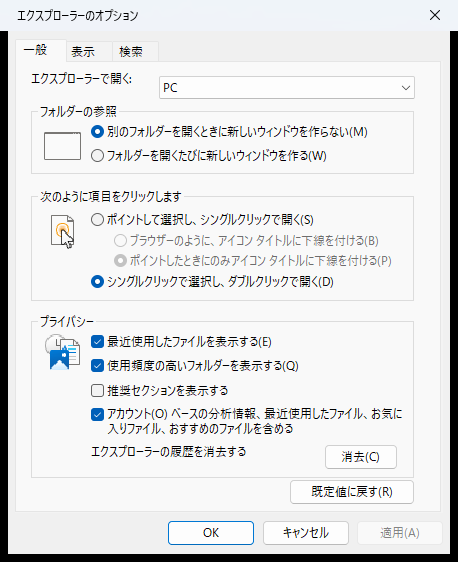
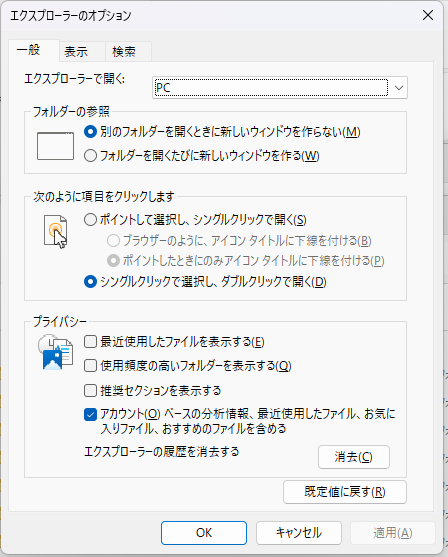
feat: show screen previews for more Windows settings items
Add screenshots of the Settings, Windows Security and File Explorer
Options screens so that 32 of the 41 Windows settings items in the
recipe builder have a "show the screen" button.

Retake folder-options-general.png with the privacy checkboxes cleared,
matching the state after the recipe runs, and realign its red boxes.

The remaining 9 items have no matching switch in the current Settings
app, so they stay without a button.

diff --git a/APP_RecipeBuilder/recipe-builder.html b/APP_RecipeBuilder/recipe-builder.html
@@ -3381,17 +3381,37 @@ const DEFAULT_TEMPLATE = 'step1_only_basic';
 // Windows 設定の項目ごとに、変わる場所が写った画面の画像（images フォルダー）を対応付ける。
 // コマンドの中のレジストリ値の名前で見分ける。画像は撮影した PC の状態を写した例。
 const SCREENSHOTS = [
-  { match: /\/v LaunchTo\b/, file: 'folder-options-general.png', where: 'エクスプローラーのオプション ＞ 一般 ＞ エクスプローラーで開く', box: [24, 70, 396, 32] },
+  { match: /7971f918-a847-4430-9279-4a52d1efe18d/, file: 'windows-update-options.png', where: '設定 ＞ Windows Update ＞ 詳細オプション ＞ その他の Microsoft 製品の更新プログラムを受け取る', box: [18, 66, 850, 68] },
+  { match: /\/v HideFileExt\b/, file: 'system-advanced-explorer.png', where: '設定 ＞ システム ＞ 詳細設定 ＞ エクスプローラー ＞ ファイル拡張子を表示する', box: [18, 113, 850, 70] },
+  { match: /\/v Hidden\b/, file: 'system-advanced-explorer.png', where: '設定 ＞ システム ＞ 詳細設定 ＞ エクスプローラー ＞ 非表示のファイルとシステム ファイルを表示する', box: [18, 186, 850, 70] },
+  { match: /\/v LaunchTo\b/, file: 'folder-options-general.png', where: 'エクスプローラーのオプション ＞ 一般 ＞ エクスプローラーで開く', box: [18, 72, 392, 30] },
+  { match: /\/v ShowRecent\b/, file: 'folder-options-general.png', where: 'エクスプローラーのオプション ＞ 一般 ＞ プライバシー ＞ 最近使用したファイルを表示する', box: [80, 331, 234, 22] },
+  { match: /\/v ShowFrequent\b/, file: 'folder-options-general.png', where: 'エクスプローラーのオプション ＞ 一般 ＞ プライバシー ＞ 使用頻度の高いフォルダーを表示する', box: [80, 355, 234, 22] },
   { match: /\/v DisableAutoplay\b/, file: 'autoplay.png', where: '設定 ＞ Bluetooth とデバイス ＞ 自動再生 ＞ すべてのメディアとデバイスで自動再生を使う', box: [28, 70, 270, 70] },
   { match: /StorageOnArrival/, file: 'autoplay.png', where: '設定 ＞ Bluetooth とデバイス ＞ 自動再生 ＞ リムーバブル ドライブ', box: [28, 206, 340, 76] },
+  { match: /\/v ScoobeSystemSettingEnabled\b/, file: 'notifications-additional.png', where: '設定 ＞ システム ＞ 通知 ＞ 追加の設定 ＞ Windows を最大限に活用し、このデバイスの設定を完了する方法を提案する', box: [60, 330, 790, 46] },
+  { match: /\/v SubscribedContent-338389Enabled\b/, file: 'notifications-additional.png', where: '設定 ＞ システム ＞ 通知 ＞ 追加の設定 ＞ Windows を使用する際のヒントや提案を入手する', box: [60, 381, 790, 46] },
   { match: /\/v AllowTelemetry\b/, file: 'privacy-feedback.png', where: '設定 ＞ プライバシーとセキュリティ ＞ 診断とフィードバック ＞ 診断データ', box: [40, 70, 1000, 240] },
   { match: /\\Input\\TIPC"/, file: 'privacy-feedback.png', where: '設定 ＞ プライバシーとセキュリティ ＞ 診断とフィードバック ＞ 手書き入力とタイプ入力の改善', box: [40, 312, 1000, 72] },
+  { match: /\/v TailoredExperiencesWithDiagnosticDataEnabled\b/, file: 'privacy-recommendations.png', where: '設定 ＞ プライバシーとセキュリティ ＞ 推奨事項 & オファー ＞ パーソナライズされたオファー', box: [18, 66, 844, 68] },
+  { match: /\/v NumberOfSIUFInPeriod\b/, file: 'privacy-feedback.png', where: '設定 ＞ プライバシーとセキュリティ ＞ 診断とフィードバック ＞ フィードバックの間隔', box: [40, 586, 1000, 68] },
   { match: /\/v IsDeviceSearchHistoryEnabled\b/, file: 'search-permissions.png', where: '設定 ＞ プライバシーとセキュリティ ＞ 検索 ＞ 履歴の検索', box: [40, 152, 1000, 72] },
   { match: /\/v IsMSACloudSearchEnabled\b/, file: 'search-permissions.png', where: '設定 ＞ プライバシーとセキュリティ ＞ 検索 ＞ 自分のアカウントを検索 ＞ Microsoft アカウント', box: [40, 536, 1000, 58] },
   { match: /\/v IsBusinessCloudSearchEnabled\b/, file: 'search-permissions.png', where: '設定 ＞ プライバシーとセキュリティ ＞ 検索 ＞ 自分のアカウントを検索 ＞ 職場または学校アカウント', box: [40, 595, 1000, 54] },
   { match: /\\HypervisorEnforcedCodeIntegrity"/, file: 'core-isolation.png', where: 'Windows セキュリティ ＞ デバイス セキュリティ ＞ コア分離 ＞ メモリ整合性', box: [358, 150, 546, 158] },
   { match: /\\KernelShadowStacks"/, file: 'core-isolation.png', where: 'Windows セキュリティ ＞ デバイス セキュリティ ＞ コア分離 ＞ カーネル モード ハードウェア強制スタック保護', box: [358, 314, 546, 158] },
   { match: /\/v RunAsPPL\b/, file: 'core-isolation.png', where: 'Windows セキュリティ ＞ デバイス セキュリティ ＞ コア分離 ＞ ローカル セキュリティ機関の保護', box: [358, 472, 546, 174] },
+  { match: /-PUAProtection\b/, file: 'reputation-protection.png', where: 'Windows セキュリティ ＞ アプリとブラウザー コントロール ＞ 評価ベースの保護 ＞ 望ましくない可能性のあるアプリのブロック', box: [10, 322, 544, 226] },
+  { match: /standby-timeout-ac\b/, file: 'power-sleep.png', where: '設定 ＞ システム ＞ 電源 ＞ 画面、スリープ、休止状態のタイムアウト ＞ 電源に接続 ＞ 次の時間の経過後にデバイスをスリープ状態にする', box: [34, 393, 790, 50] },
+  { match: /\/v TaskbarEndTask\b/, file: 'system-advanced.png', where: '設定 ＞ システム ＞ 詳細設定 ＞ タスクの終了', box: [18, 93, 850, 68] },
+  { match: /\/v Start_TrackDocs\b/, file: 'personalization-start.png', where: '設定 ＞ 個人用設定 ＞ スタート ＞ 新着順 ＞ 最近使ったファイルとおすすめのファイルを表示する', box: [18, 287, 850, 66] },
+  { match: /\\AdvertisingInfo"/, file: 'privacy-recommendations.png', where: '設定 ＞ プライバシーとセキュリティ ＞ 推奨事項 & オファー ＞ 広告識別子', box: [18, 431, 844, 68] },
+  // 3つの値は、どれも設定画面の同じスイッチに当たる。ElevenForum の手順書が、このスイッチを REG ファイルで変える方法として3つを同時に書き換えているため、3項目とも同じ場所を示す。
+  { match: /\/v SubscribedContent-(338393|353694|353696)Enabled\b/, file: 'privacy-recommendations.png', where: '設定 ＞ プライバシーとセキュリティ ＞ 推奨事項 & オファー ＞ [設定] の推奨事項とオファー', box: [18, 358, 844, 68] },
+  { match: /\/v LongPathsEnabled\b/, file: 'system-advanced.png', where: '設定 ＞ システム ＞ 詳細設定 ＞ 長いパスを有効にする', box: [18, 335, 850, 68] },
+  { match: /-ExecutionPolicy RemoteSigned\b/, file: 'system-advanced-powershell.png', where: '設定 ＞ システム ＞ 詳細設定 ＞ PowerShell ＞ 署名せずに実行するローカル PowerShell スクリプトを許可するように、実行ポリシーを変更します', box: [18, 300, 850, 127] },
+  { match: /\/v EnableClipboardHistory\b/, file: 'clipboard.png', where: '設定 ＞ システム ＞ クリップボード ＞ クリップボードの履歴', box: [18, 66, 850, 68] },
+  { match: /\\StickyKeys"/, file: 'sticky-keys.png', where: '設定 ＞ アクセシビリティ ＞ キーボード ＞ 固定キー機能 ＞ 固定キー機能用のキーボード ショートカット', box: [18, 117, 850, 70] },
 ];
 const screenshotFor = (item) => SCREENSHOTS.find((shot) => shot.match.test(item.command)) || null;
 
